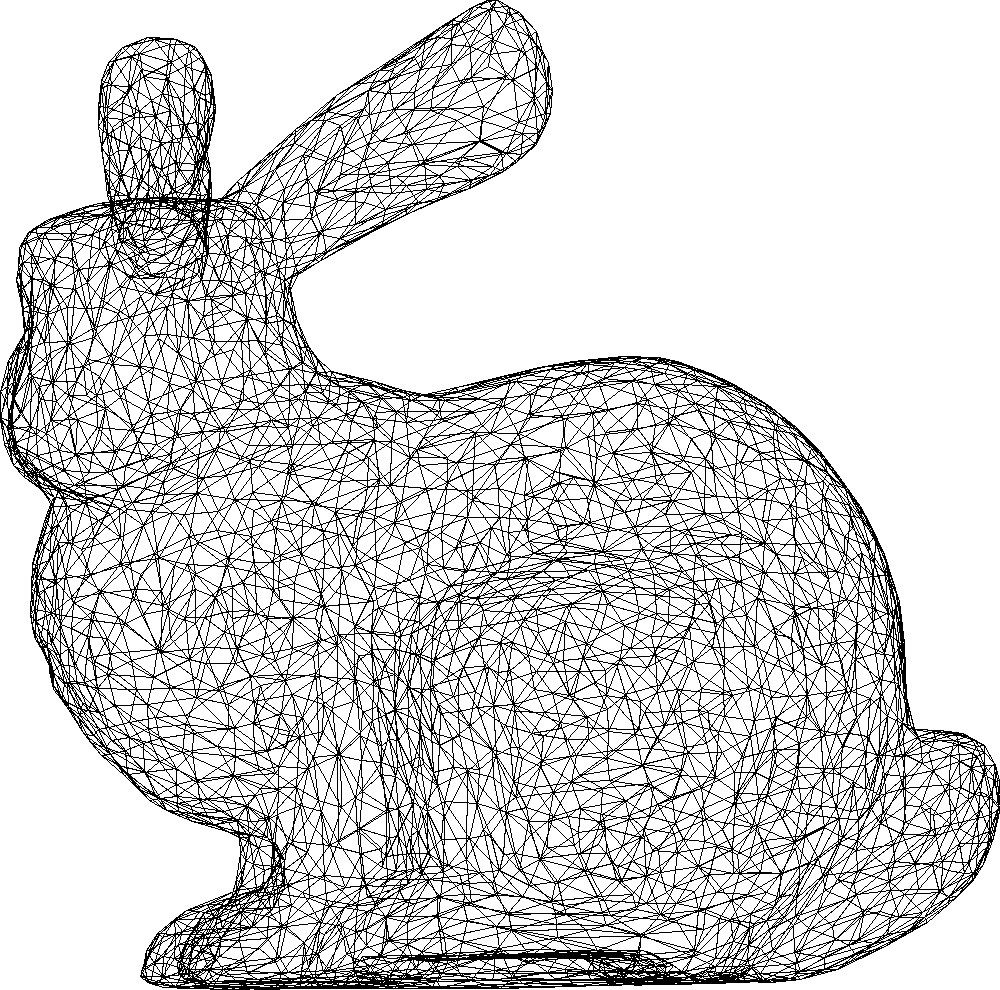
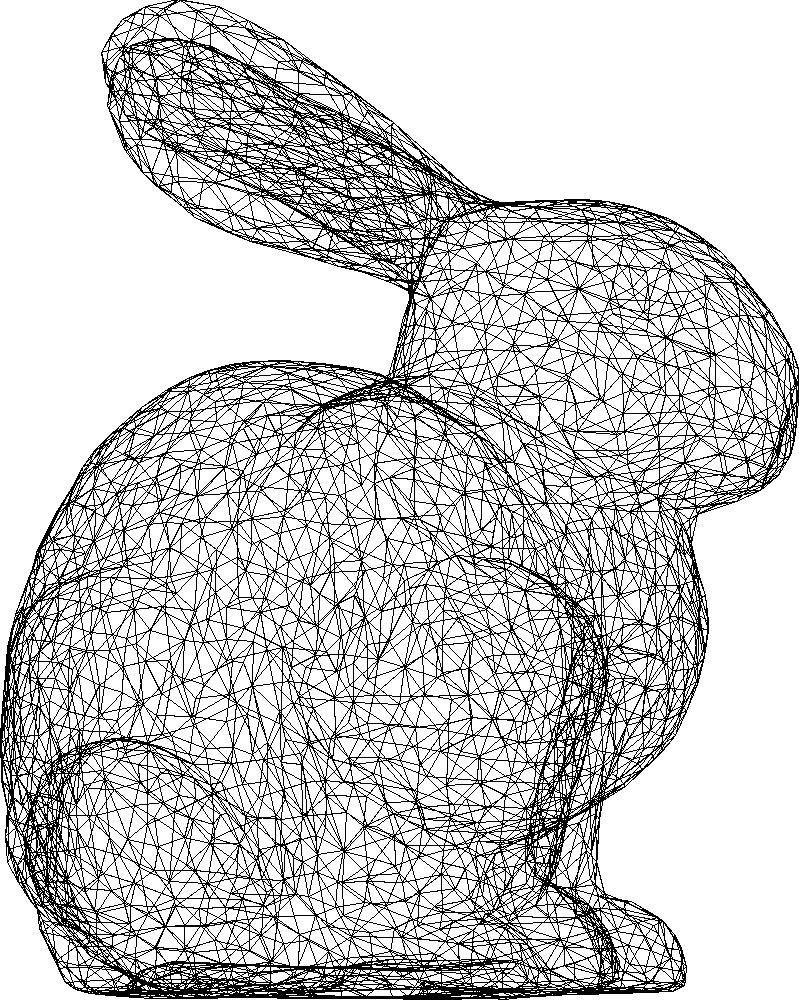
add perspective and camera

diff --git a/renderer/parser.py b/renderer/parser.py
@@ -1,5 +1,6 @@
 import math
-from geometry import Vertex, Face
+import numpy as np
+import geometry
 
 class WireframeParser:
     def __init__(self):
@@ -8,8 +9,7 @@ class WireframeParser:
     def readfile(self, filename):
         self._vertices = {}
         self._faces = []
-        self._min_x, self._min_y = math.inf, math.inf
-        self._max_x, self._max_y = -math.inf, -math.inf
+        self.coors = []
 
         with open(filename, 'r') as file:
             for line in file:
@@ -18,19 +18,32 @@ class WireframeParser:
                 line = line.strip().split(' ')
                 line = [s for s in line if len(s) > 0]
                 if line[0] == 'v':
-                    coors = [float(c) for c in line[1:]]
-                    vid = len(self._vertices) + 1
-                    v = Vertex(*coors, vid)
-                    self._vertices[vid] = v
-                    self._min_x, self._max_x = min(self._min_x, v.x), max(self._max_x, v.x)
-                    self._min_y, self._max_y = min(self._min_y, v.y), max(self._max_y, v.y)
+                    coor = [float(c) for c in line[1:]] # x, y, z coordinates
+                    coor.append(1) # dummy 4-th dimension
+                    self.coors.append(coor)
                 elif line[0] == 'f':
-                    Face._vertices = self._vertices
                     vs = [int(v.split('/')[0]) for v in line[1:]]
-                    f = Face(vs)
+                    f = geometry.Face(vs)
                     self._faces.append(f)
-        self.faces.sort(key = lambda f: f.zmean)
+        self.coors = np.stack(self.coors) # raw coordinates
     
+    def adjust_camera(self, camera, center, up):
+        view = geometry.lookAt(camera, center, up)
+        print(view)
+        self.camera_coors = np.transpose(np.matmul(view, np.transpose(self.coors)))
+        print(self.camera_coors.shape)
+
+        self._min_x, self._min_y = math.inf, math.inf
+        self._max_x, self._max_y = -math.inf, -math.inf
+        for i, coor in enumerate(self.camera_coors):
+            vid = i + 1
+            v = geometry.Vertex(*coor[:-1], vid)
+            self._vertices[vid] = v
+            self._min_x, self._max_x = min(self._min_x, v.x), max(self._max_x, v.x)
+            self._min_y, self._max_y = min(self._min_y, v.y), max(self._max_y, v.y)
+        geometry.Face._vertices = self._vertices
+        self.faces.sort(key = lambda f: f.zmean)
+
     @property
     def vertices(self):
         return self._vertices
@@ -47,7 +60,7 @@ class WireframeParser:
     def y_range(self):
         return (self._min_y, self._max_y)
     
-    def get_imsize(self, scale):
+    def get_canvas_size(self, scale):
         def d(t):
             return t[1] - t[0]
         return (int(scale * d(self.x_range)), int(scale * d(self.y_range)))

diff --git a/renderer/renderer.py b/renderer/renderer.py
@@ -32,12 +32,18 @@ class WireframeRenderer:
     def readfile(self, infile):
         self.parser.readfile(infile)
 
-    def render(self, mode, outfile):
+    def adjust_camera(self, camera, center, up):
+        self.parser.adjust_camera(camera, center, up)
+
+    def render(self, mode, camera, center, up):
+        # compute camera coordinates
+
+        self.adjust_camera(camera, center, up)
         self.scale = self.get_scale(self.parser.x_range, self.parser.y_range)
-        self.imsize = self.parser.get_imsize(self.scale)
-        self.canvas = WireframeCanvas(self.imsize, self.fg_color, self.bg_color)
+        self.canvas_size = (1000, 1000)#self.parser.get_canvas_size(self.scale)
+        self.canvas = WireframeCanvas(self.canvas_size, self.fg_color, self.bg_color)
         
-        light_dir = np.array([0, 0, 1]) # light direction
+        light_dir = np.array([0, 0, 1]) # light direction, into the frame
         for f in self.parser.faces:
             f_canvas = []  # face coordinates to draw on canvas
             n = f.normal  # compute normal vector of face
@@ -53,18 +59,29 @@ class WireframeRenderer:
                 self.canvas.drawpoly(f_canvas, fill=colors.color_grad(colors.WHITE, I))
         
         self.canvas.verticalFlip()
-        self.canvas.save(outfile)
-        self.canvas.show()
-        self.canvas.close()
+        return self.canvas
 
 
 if __name__ == '__main__':
-    mode = 'wireframe'
-    inpath = '../examples/bunny.obj'
-    outpath = '../images/bunny_{}.png'.format(mode)
+    mode = 'triangle'
+    obj = 'bunny'
+    inpath = '../examples/{}.obj'.format(obj)
+    outpath = '../images/{}_{}.png'.format(obj, mode)
     wf = WireframeRenderer()
     wf.readfile(inpath)
-    wf.render(mode, outpath)
 
+    im_list = []
+    for i in range(72):
+        r = 100
+        theta = 5 * i
+        rad = np.pi * theta / 180
+        camera = [r * np.cos(rad), 0, r * np.sin(rad)]
+        center = [0, 0, 0]
+        up = [0, 1, 0]
+
+        canvas = wf.render(mode, camera, center, up)
+        im_list.append(canvas.img)
+
+    im_list[0].save('render.gif', save_all=True, append_images=im_list[1:], duration=100, loop=0)
 
 

diff --git a/renderer/geometry.py b/renderer/geometry.py
@@ -20,6 +20,10 @@ class Vertex:
         return self._z
 
     @property
+    def c(self):
+        return self._c 
+    
+    @property
     def id(self):
         return self._id
     
@@ -30,6 +34,13 @@ class Vertex:
     @property
     def coor3D(self):
         return (self._x, self._y, self._z)
+    
+    def perspective2D(self, c):
+        """ 
+            c is the camera z position (in pixels).
+            Default use coor2D where c = inf.
+        """
+        return (self.x/(1-self.z/c), self.y/(1-self.z/c))
     
     def __sub__(self, v):
         return np.subtract(self.coor3D, v.coor3D)
@@ -65,6 +76,29 @@ class Face:
 
 def dist(t):
     return t[1] - t[0]
+
+def normalize(v):
+    norm = np.sqrt(np.sum(v ** 2)) + 1e-20
+    return v / norm
+
+def lookAt(camera, center, up):
+    camera = np.array(camera)
+    center = np.array(center)
+    up = np.array(up)
+
+    z = normalize(camera - center)
+    x = normalize(np.cross(up, z))
+    y = normalize(np.cross(z, x))
+
+    m_inv = np.eye(4)
+    tr = np.eye(4)
+    for i in range(3):
+        m_inv[0][i] = x[i]
+        m_inv[1][i] = y[i]
+        m_inv[2][i] = z[i]
+        tr[i][3] = -center[i]
+    return np.matmul(m_inv, tr)
+
 
 if __name__ == '__main__':
     v = Vertex(0, 0, 0, 0)

diff --git a/README.md b/README.md
@@ -3,8 +3,13 @@ A minimal renderer in pure Python.
 
 ## bunny
 This is the [Stanford bunny](https://en.wikipedia.org/wiki/Stanford_bunny).
+<p align="center">
+    <img src="./images/render.gif" width="600"/>
+</p>
+
+### Rendering modes
 
 |Mode|Render|
 |---|---|
-|Wireframe|<img src="./images/bunny_wireframe.png" width="600"/>|
-|Triangle|<img src="./images/bunny_triangle.png" width="600"/>|
+|Wireframe|<img src="./images/bunny_wireframe_demo.png" width="600"/>|
+|Triangle|<img src="./images/bunny_triangle_demo.png" width="600"/>|
